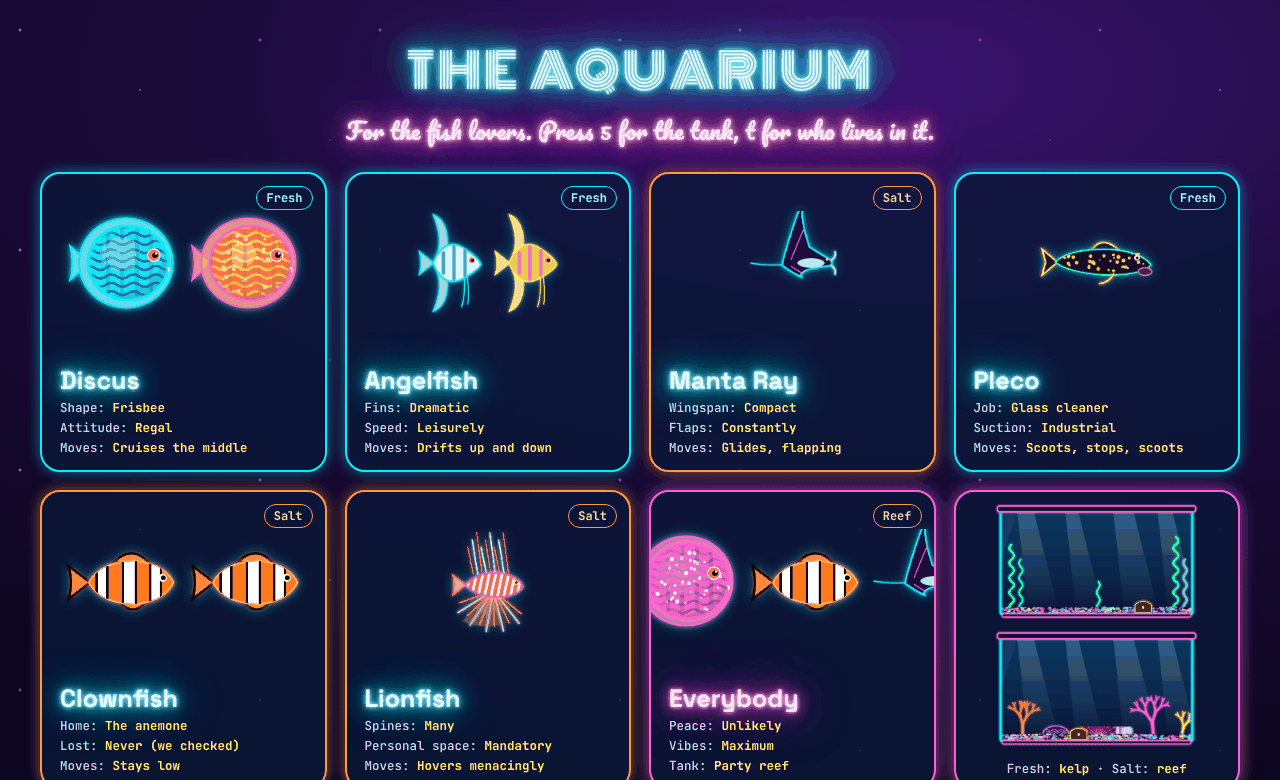
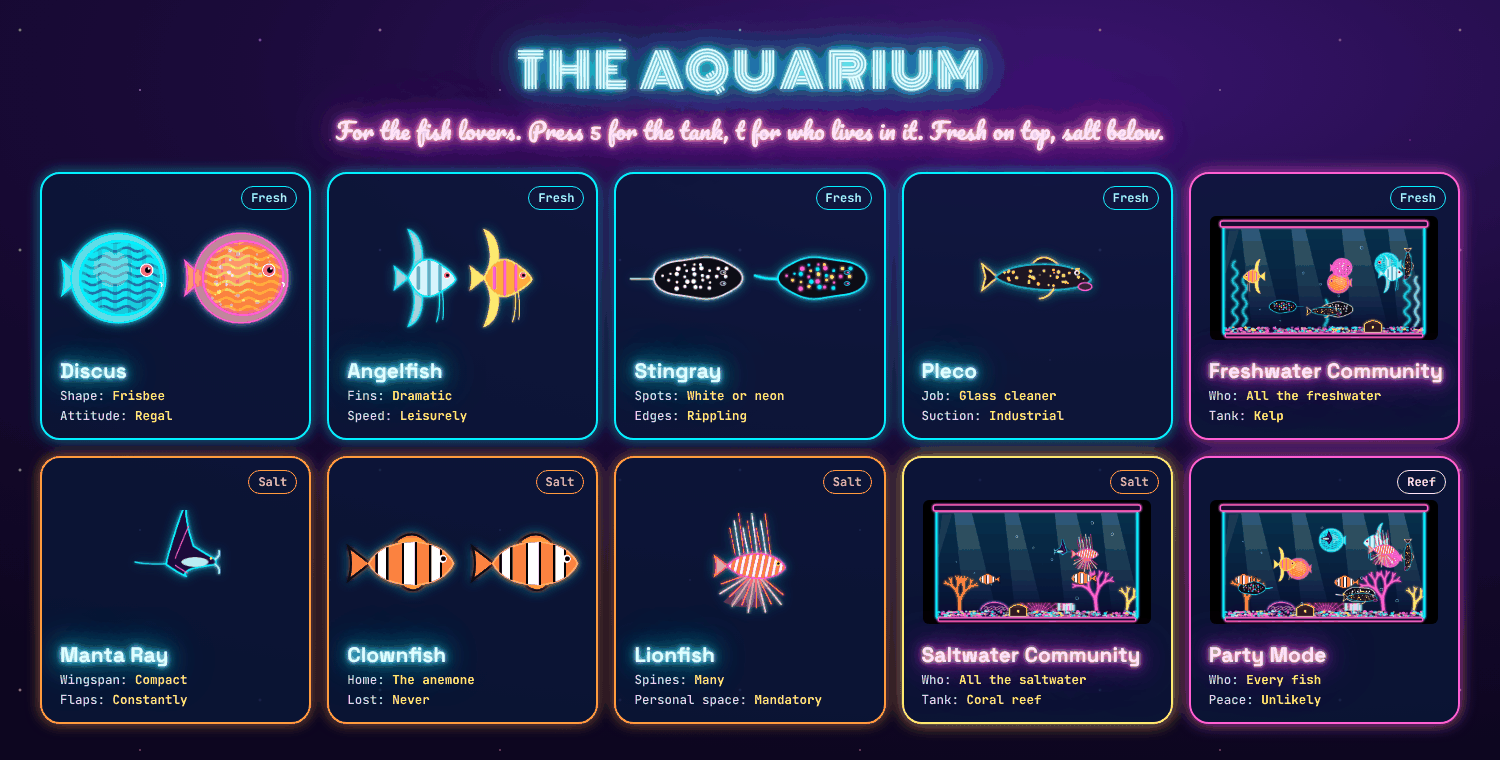
Freshwater stingrays, community tanks and Party Mode (v1.7.0)
- Stingray: two freshwater rays gliding along the bottom with rippling
  edges, black with white spots and black with neon spots
- t now cycles each fish, Freshwater Community, Saltwater Community, and
  Party Mode (every fish in the reef tank); --aquarium all still works
- README: aquarium split into freshwater and saltwater tables

Claude-Session: https://claude.ai/code/session_0142athTo3ABiBqVr5GGnaGY

diff --git a/tools/stingray.html b/tools/stingray.html
@@ -1,0 +1,41 @@
+<!-- Source for props/sprites/stingray-{white,neon}-0..5.png: 6 ripple frames per colorway; crop each colorway with one shared bounding box. -->
+<!doctype html><html><head><meta charset="utf-8"><style>body{margin:0;background:transparent}.p{display:inline-block;padding:24px}</style></head><body>
+<div id="frames"></div>
+<script>
+// Freshwater stingray (Potamotrygon), facing right, seen from slightly above as it glides over the gravel.
+// 6 frames of the disc edge rippling front to back, like the real thing. Two colorways.
+const NS = 'http://www.w3.org/2000/svg';
+const N = 6;
+const disc = (k) => {
+  const pts = [];
+  for (let i = 0; i <= 64; i++) {
+    const a = i / 64 * 2 * Math.PI, x = Math.cos(a) * 96;
+    const wave = 1 + 0.07 * Math.sin(Math.cos(a) * 5 - k / N * 2 * Math.PI);  // a wave running nose to tail along both edges
+    pts.push([x, Math.sin(a) * 44 * wave]);
+  }
+  return 'M' + pts.map(p => p[0].toFixed(1) + ',' + p[1].toFixed(1)).join(' L') + ' Z';
+};
+let seed = 3; const rnd = () => (seed = (seed * 16807) % 2147483647) / 2147483647;
+const spots = [];  // jittered grid, so the spots cover the whole disc evenly
+for (let gx = -78; gx <= 78; gx += 17) for (let gy = -32; gy <= 32; gy += 13) {
+  const x = gx + (rnd() - .5) * 9, y = gy + (rnd() - .5) * 7;
+  if ((x / 88) ** 2 + (y / 38) ** 2 < 0.8 && !(x > 40 && Math.abs(y) > 5 && Math.abs(y) < 20)) spots.push([x, y, 2.6 + rnd() * 2.8]);
+}
+const looks = [
+  {id: 'white', body: '#101014', edge: '#E8E8F0', spot: () => '#FFFFFF', glow: '#BFC7D6'},
+  {id: 'neon', body: '#0C0812', edge: '#00F0FF', spot: (i) => ['#FF5FD2', '#00F0FF', '#FFE95A'][i % 3], glow: '#FF5FD2'},
+];
+for (const L of looks) for (let k = 0; k < N; k++) {
+  const w = document.createElement('div'); w.className = 'p'; w.id = `${L.id}-${k}`;
+  w.innerHTML = `<svg width="300" height="150" viewBox="-150 -75 300 150">
+   <defs><filter id="g${L.id}${k}" x="-30%" y="-40%" width="160%" height="180%"><feGaussianBlur stdDeviation="3.5" result="b"/><feMerge><feMergeNode in="b"/><feMergeNode in="SourceGraphic"/></feMerge></filter>
+   <clipPath id="c${L.id}${k}"><path d="${disc(k)}"/></clipPath></defs>
+   <path d="M-92,2 Q-118,${4 + 3 * Math.sin(k / N * 6.28)} -146,${-2 + 4 * Math.sin(k / N * 6.28 + 1)}" fill="none" stroke="${L.edge}" stroke-width="5" stroke-linecap="round" filter="url(#g${L.id}${k})"/>
+   <path d="${disc(k)}" fill="${L.body}" stroke="${L.edge}" stroke-width="3.5" filter="url(#g${L.id}${k})"/>
+   <g clip-path="url(#c${L.id}${k})">${spots.map(([x, y, r], i) => `<circle cx="${x}" cy="${y}" r="${r}" fill="${L.spot(i)}"${L.id === 'neon' ? ` filter="url(#g${L.id}${k})"` : ''}/>`).join('')}</g>
+   <ellipse cx="54" cy="-12" rx="6" ry="4" fill="#2A2A33" stroke="${L.edge}" stroke-width="1.5"/><ellipse cx="54" cy="12" rx="6" ry="4" fill="#2A2A33" stroke="${L.edge}" stroke-width="1.5"/>
+   <circle cx="56" cy="-12" r="2" fill="${L.glow}"/><circle cx="56" cy="12" r="2" fill="${L.glow}"/>
+  </svg>`;
+  document.getElementById('frames').appendChild(w);
+}
+</script></body></html>

diff --git a/glamcam.py b/glamcam.py
@@ -207,9 +207,12 @@ class Prop:
         return [f for school in (self.swim or {}).get("species", {}).values() for f in school]
 
     def school(self, species):
-        """Fish for one species, or every species for "all"."""
+        """Fish for one species, or a whole group (freshwater / saltwater community, party mode)."""
         everyone = self.swim["species"]
-        return self.all_fish() if species == "all" else everyone.get(species, everyone[self.swim["default"]])
+        group = self.swim.get("groups", {}).get(species)
+        if group:
+            return [f for name in group for f in everyone[name]]
+        return everyone.get(species, everyone[self.swim["default"]])
 
     def variant(self, species):
         return (self.swim or {}).get("tank", {}).get(species, "default")
@@ -730,6 +733,8 @@ def run(args):
     props = {pr.key: pr for pr in load_props()}
     tank = next((pr for pr in props.values() if pr.swim), None)
     species = tank.swim["order"] if tank else ["discus"]
+    if args.aquarium == "all":  # older name for party mode
+        args.aquarium = "party"
     if args.aquarium in species:
         renderer.species = args.aquarium
     for pid in filter(None, (args.props or "").split(",")):
@@ -821,7 +826,7 @@ def self_test():
     r.stache = next((wg for wg in wigs if wg.kind == "mustache"), None)
     r.hoodie = next((wg for wg in wigs if wg.kind == "hoodie"), None)
     r.glasses = next((wg for wg in wigs if wg.kind == "glasses"), None)
-    r.species = "all"
+    r.species = "party"
     r.props = load_props()
     frame = np.full((720, 1280, 3), 128, np.uint8)
     for k in range(3):
@@ -849,8 +854,8 @@ def main():
     ap.add_argument("--hoodie", action="store_true", help="start in hoodie mode")
     ap.add_argument("--glasses", metavar="NAME", help="start with sunglasses on: shades, neon-shades")
     ap.add_argument("--props", metavar="IDS", help="neon props to start with, comma-separated (see props/)")
-    ap.add_argument("--aquarium", metavar="FISH", help="who lives in the aquarium: discus, angelfish, manta, pleco, "
-                                                        "clownfish, lionfish, all")
+    ap.add_argument("--aquarium", metavar="FISH", help="who lives in the aquarium: discus, angelfish, stingray, pleco, freshwater, "
+                                                        "manta, clownfish, lionfish, saltwater, party")
     ap.add_argument("--smooth", type=float, default=0.5, help="0 = raw tracking, 0.9 = very smooth/laggy")
     ap.add_argument("--no-vcam", action="store_true", help="preview only, don't send to the virtual camera")
     ap.add_argument("--obs-window", action="store_true",

diff --git a/README.md b/README.md
@@ -145,23 +145,32 @@ Hoodie mode and Mike Mode (`x`) team up nicely: the hood covers the top of your 
 
 ## 🐠 The Aquarium
 
-<p align="center"><img src="assets/aquarium.png" alt="The Aquarium: Discus, Angelfish, Manta Ray, Pleco, Clownfish, Lionfish and Everybody, with the freshwater kelp tank and the saltwater reef tank"></p>
+<p align="center"><img src="assets/aquarium.png" alt="The Aquarium. Freshwater: Discus, Angelfish, Stingray, Pleco, Freshwater Community. Saltwater: Manta Ray, Clownfish, Lionfish, Saltwater Community, and Party Mode with every fish"></p>
 
 For the fish lovers. Press **`5`** to put a big neon tank on the wall behind you, then press **`t`** to choose who lives in it. The fish actually swim: they cruise back and forth, turn around at the glass, and drift up and down while bubbles rise.
 
-| `t` | Who | Water | How they move | Stats |
-|---|---|---|---|---|
-| 1 | **Discus** | 🌿 Fresh | Three of them (turquoise, red pigeon-blood and pink) cruising the middle | Shape: **Frisbee** · Attitude: **Regal** |
-| 2 | **Angelfish** | 🌿 Fresh | Two, drifting slowly up and down | Fins: **Dramatic** · Speed: **Leisurely** |
-| 3 | **Manta Ray** | 🪸 Salt | A small manta that flaps its wings as it glides | Wingspan: **Compact** · Flaps: **Constantly** |
-| 4 | **Pleco** | 🌿 Fresh | One scoots along the gravel (stop, scoot, stop), one is suckered onto the glass | Job: **Glass cleaner** · Suction: **Industrial** |
-| 5 | **Clownfish** | 🪸 Salt | Two, staying low near their anemone | Lost: **Never (we checked)** |
-| 6 | **Lionfish** | 🪸 Salt | One, hovering menacingly | Personal space: **Mandatory** |
-| 7 | **Everybody** | 🪸 Reef | All of the above, in one tank | Peace: **Unlikely** · Vibes: **Maximum** |
+**🌿 Freshwater** (kelp tank: swaying neon kelp, a treasure chest)
 
-**Two tanks:** freshwater fish get the **kelp tank** (swaying neon kelp, a treasure chest). Saltwater fish and Everybody get the **reef tank**, with coral instead of kelp: branching antler coral, a brain coral, a sea fan, and an anemone for the clownfish.
+| Mode | How they move | Stats |
+|---|---|---|
+| **Discus** | Three of them (turquoise, red pigeon-blood and pink) cruising the middle | Shape: **Frisbee** · Attitude: **Regal** |
+| **Angelfish** | Two, drifting slowly up and down | Fins: **Dramatic** · Speed: **Leisurely** |
+| **Stingray** | Two freshwater rays gliding along the bottom with rippling edges: one black with white spots, one black with neon spots | Spots: **White or neon** · Edges: **Rippling** |
+| **Pleco** | One scoots along the gravel (stop, scoot, stop), one is suckered onto the glass | Job: **Glass cleaner** · Suction: **Industrial** |
+| **Freshwater Community** | All of the freshwater fish above, sharing the kelp tank | Who: **All the freshwater** |
 
-Press `t` while the tank is off and it turns on for you. Start with a particular crew using `--aquarium manta` (any of `discus`, `angelfish`, `manta`, `pleco`, `clownfish`, `lionfish`, `all`).
+**🪸 Saltwater** (reef tank: antler coral, a brain coral, a sea fan, and an anemone for the clownfish)
+
+| Mode | How they move | Stats |
+|---|---|---|
+| **Manta Ray** | A small manta that flaps its wings as it glides | Wingspan: **Compact** · Flaps: **Constantly** |
+| **Clownfish** | Two, staying low near their anemone | Lost: **Never (we checked)** |
+| **Lionfish** | One, hovering menacingly | Personal space: **Mandatory** |
+| **Saltwater Community** | All of the saltwater fish above, sharing the reef | Who: **All the saltwater** |
+
+**🎉 Party Mode:** every fish, freshwater and salt, all in the reef tank. Biologically questionable. Spiritually correct.
+
+Press **`t`** to cycle in this order: Discus → Angelfish → Stingray → Pleco → Freshwater Community → Manta Ray → Clownfish → Lionfish → Saltwater Community → Party Mode. If the tank is off, `t` turns it on for you. Start with a particular crew using `--aquarium` and any of `discus`, `angelfish`, `stingray`, `pleco`, `freshwater`, `manta`, `clownfish`, `lionfish`, `saltwater`, `party`.
 
 ## 🚀 Getting started
 
@@ -320,7 +329,7 @@ Click the **GlamCam** window first, then:
 | `g` | 😎 [Sunglasses](#-hoodie--shades): cycles none → Shades → Neon Shades, over any wig |
 | `1` `2` `3` `4` | 🪩 [Neon props](#-neon-props) on the wall behind you: Onboard sign, disco ball, floating neon keyboard, sucks to suck. `0` clears them |
 | `5` | 🐠 [The Aquarium](#-the-aquarium) on / off |
-| `t` | 🐠 Who's in the aquarium: Discus → Angelfish → Manta Ray → Pleco → Clownfish → Lionfish → Everybody |
+| `t` | 🐠 Who's in the aquarium: each fish on its own, Freshwater Community, Saltwater Community, or Party Mode (everyone) |
 | `x` | 🫥 Hide your real hair (**Mike Mode**): paints it out so it can't peek out from under the wig |
 | `f` | 🦇 **[Cave Mode](#-cave-mode)**: freeze the costume in place, turn your lights off, lurk with glowing blue eyes. `f` again to resume tracking |
 | `h` | Wig off / on (for when your skip-level joins) |
@@ -393,7 +402,7 @@ Pass these to `run.sh` / `run.bat`, or to the app's executable. Every one of the
 | Option | Does | Key |
 |---|---|---|
 | `--props IDS` | Props on the wall, comma-separated: `onboard-sign`, `disco-ball`, `neon-keyboard`, `sucks-to-suck`, `aquarium` | `1`–`5` |
-| `--aquarium FISH` | Who's in the tank: `discus`, `angelfish`, `manta`, `pleco`, `clownfish`, `lionfish`, `all` | `t` |
+| `--aquarium FISH` | Who's in the tank. Fresh: `discus`, `angelfish`, `stingray`, `pleco`, `freshwater` (community). Salt: `manta`, `clownfish`, `lionfish`, `saltwater` (community). Or `party` for everyone | `t` |
 | `--no-blur` | Start with background blur off | `b` |
 
 **🎛 How it looks**
@@ -424,7 +433,7 @@ Pass these to `run.sh` / `run.bat`, or to the app's executable. Every one of the
 **Example: the full send**
 
 ```bash
-./run.sh --wig top-hat --mustache mustache --glasses neon-shades --hoodie --props aquarium,disco-ball --aquarium all
+./run.sh --wig top-hat --mustache mustache --glasses neon-shades --hoodie --props aquarium,disco-ball --aquarium party
 ```
 
 ## 🔬 QA Policy

diff --git a/.github/release-notes.md b/.github/release-notes.md
@@ -18,4 +18,4 @@ Glaaron · 🎩 Top Hat · Glaaron Magnifique · 👑 The Ultimate Glaaron (hair
 
 GlamCam opens a window called **GlamCam** with your wig on. To get it into Google Meet, capture that window in OBS and start OBS's virtual camera. Full steps (including the one-time OBS setup) are in the [README](https://github.com/jdonohoo/glamcam#-getting-started).
 
-Press **k** (or ⌘K / Ctrl+K) in the GlamCam window for the keys. **n** = next wig, **m** = add a mustache to any wig, **f** = 🦇 Cave Mode (freeze the costume, kill the lights, lurk with glowing blue eyes). **1–4** = 🪩 neon props on the wall behind you: Onboard sign, disco ball, floating neon keyboard, sucks to suck. **5** = 🐠 the Aquarium, **t** = who's in it (Discus, Angelfish, Manta Ray, Pleco, Clownfish, Lionfish, Everybody). **o** = hoodie, **g** = sunglasses, **x** = Mike Mode.
+Press **k** (or ⌘K / Ctrl+K) in the GlamCam window for the keys. **n** = next wig, **m** = add a mustache to any wig, **f** = 🦇 Cave Mode (freeze the costume, kill the lights, lurk with glowing blue eyes). **1–4** = 🪩 neon props on the wall behind you: Onboard sign, disco ball, floating neon keyboard, sucks to suck. **5** = 🐠 the Aquarium, **t** = who's in it: Discus, Angelfish, Stingray, Pleco or **Freshwater Community**; Manta Ray, Clownfish, Lionfish or **Saltwater Community**; or 🎉 **Party Mode** with every fish. **o** = hoodie, **g** = sunglasses, **x** = Mike Mode.
